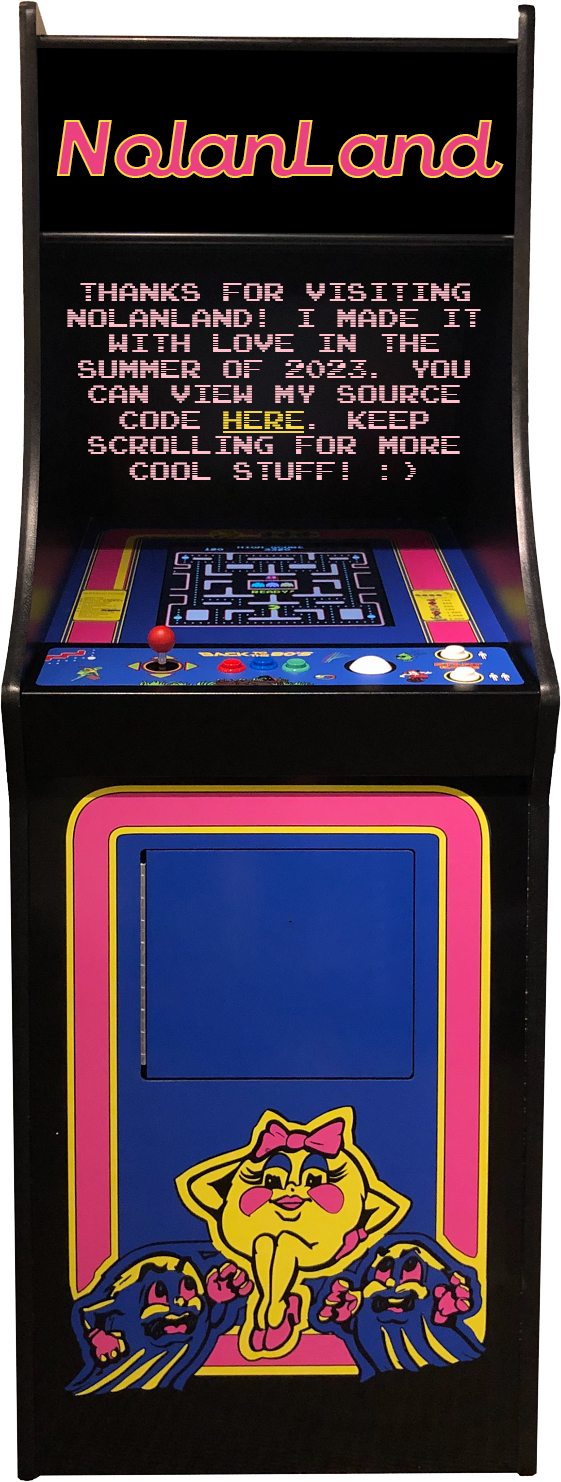
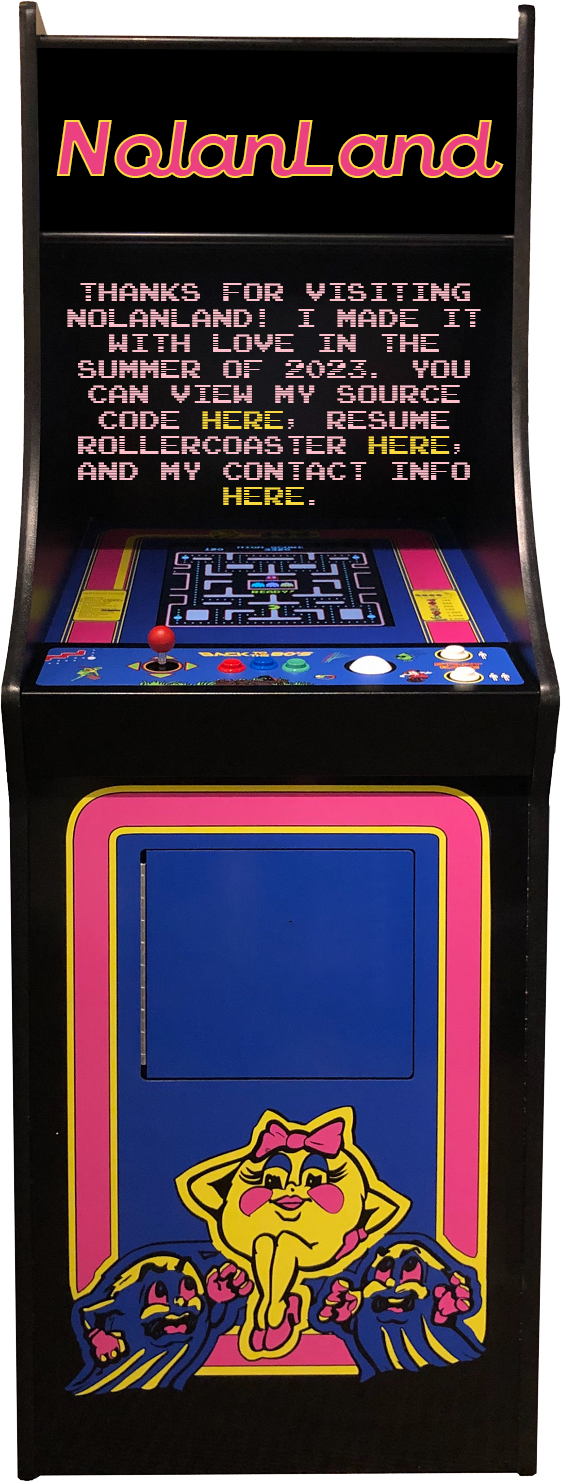
scrolling change to animation

Changed region(s): [[0.1212, 0.2794, 0.8485, 0.3414]]

diff --git a/script.js b/script.js
@@ -1,4 +1,6 @@
-var m = 350; // scroll buffer
+var m = 100; // scroll buffer
+var maxWidth = 40;
+var boxHeight = 16;
 
 $(window).scroll(function()
 {
@@ -6,7 +8,6 @@ $(window).scroll(function()
     var arcade = document.getElementById("arcade");
     var titleHeight = $("#title2").position().top;
     var width = window.innerWidth;
-    var maxWidth = Number(arcade.style.maxWidth.slice(0, -2)) * width / 100;
     var scrolling = $(this).scrollTop();
     if (scrolling >= titleHeight - document.getElementById("title1").offsetTop + 187)
     {
@@ -14,19 +15,17 @@ $(window).scroll(function()
         $("#title2").css("visibility", "visible");
         if (scrolling >= titleHeight - document.getElementById("title1").offsetTop + 325)
         {
-            var arcadeWidth = scrolling - (titleHeight - document.getElementById("title1").offsetTop) - 235;
-            var k = 1 // speed of zoom
-            if (k * arcadeWidth > 100)
-            {
-                if (k * arcadeWidth <= maxWidth)
-                {
-                    arcade.style.width = k * arcadeWidth + "px";
-                }
-                else
-                {
-                    arcade.style.width = maxWidth + "vw";
-                }
-            }
+            arcade.style.width = maxWidth + "vw";
+            $("#scrollbox").css("height", `${boxHeight}vw`); // Show about me text
+            $("#text1").css("visibility", "visible");
+            $("#text2").css("visibility", "hidden")
+            $("#text3").css("visibility", "hidden")
+            $("#text4").css("visibility", "hidden")
+        }
+        else
+        {
+            arcade.style.width = 10 + "vw";
+            $("#scrollbox").css("height", 0); // Hide about me text
         }
     }
     else
@@ -35,10 +34,8 @@ $(window).scroll(function()
         $("#title2").css("visibility", "hidden");
     }
     if (scrolling >= width + m)
-    {
-        $("#scrollbox").css("display", "block"); // Show about me text
+    {   
         document.getElementById("arcade").src = "media/arcade.png"; // Switch to blank arcade
-        $("#text1").css("visibility", "visible")
         $("#text1").css("opacity", `${100 - (0.1 * (scrolling - width - m))}%`); // Reduce opacity
         if (scrolling >= 2 * width + m)
         {   
@@ -65,23 +62,18 @@ $(window).scroll(function()
                             $("#text4").css("opacity", `${0.1 * (scrolling - 7 * width - m)}%`); // Increase fourth about me opacity
                             if (scrolling >= 8 * width + m)
                             {
-                                $("#arcade").css("max-width", "1000vw");
                                 $("#text4").css("visibility", "hidden");
                                 arcade.src = "media/arcade2.png";
-                                arcade.style.width = maxWidth + 0.05 * (scrolling - 8 * width - m) + "px";
-                                $("#arcade").css("opacity", `${100 - (0.05 * (scrolling - 8 * width - m))}%`); // Reduce text four opacity
-                                if (scrolling >= 10 * width + m)
+                                arcade.style.width = "100px"
+                                $("#scrollbox").css("height", 0); // Hide about me text
+                                if (scrolling >= 8.5 * width + m)
                                 {
-                                    $("#arcade").css("visibility", "hidden");
+                                    $("#arcadeContainer").css("transform", "translate(0, 40%)");
                                 }
                                 else
                                 {
-                                    $("#arcade").css("visibility", "visible");
+                                    $("#arcadeContainer").css("transform", "translate(0, 0)");
                                 }
-                            }
-                            else
-                            {
-                                $("#arcade").css("opacity", 1);
                             }
                         }
                         else
@@ -126,13 +118,10 @@ function screen_size()
         {
             if (screen.width <= 415 && window.innerWidth < window.innerHeight)
             {
-                $("#arcade").css("max-width", "100vw");
                 $("#scrollbox").css("width", "74vw");
-                $("#scrollbox").css("height", "40vw");
                 $("#scrollbox").css("left", "12%");
-                $("#scrollbox").css("margin-top", "49vw");
+                $("#scrollbox").css("margin-top", "50vw");
                 $(".aboutme").css("font-size", "3.7vw");
-                $(".aboutme").css("margin-top", "1vw");
                 document.getElementById("coaster").src = "media/mobileCoaster.png";
                 $("#coaster").css("transform", "translate(0, -230px)");
                 $("#title1").css("margin-top", "550px");
@@ -140,20 +129,17 @@ function screen_size()
                 document.getElementById("title2").classList.add("mobile");
                 $("#subheading").css("margin-top", "700px");
                 $("#subheading").css("left", "40%");
-                m = 1800;
+                m = 1500;
+                maxWidth = 100;
+                boxHeight = 40;
             }
             else
             {
-                $("#arcade").css("max-width", "40vw");
                 $("#arcade").css("backround-color", "white");
-                $("#arcade").css("top", "-1px");
                 $(".aboutme").css("font-size", "1.5vw");
-                $(".aboutme").css("margin-top", 0);
                 $("#scrollbox").css("width", "30vw");
-                $("#scrollbox").css("height", "16vw");  
                 $("#scrollbox").css("left", "34.5%");
-                $("#scrollbox").css("margin-top", 0);
-                $("#scrollbox").css("top", "20vw");
+                $("#scrollbox").css("margin-top", "20vw");
                 document.getElementById("coaster").src = "media/coaster.png";
                 $("#coaster").css("transform", "translate(0, 0)");
                 $("#title1").css("margin-top", "100px");
@@ -161,28 +147,29 @@ function screen_size()
                 document.getElementById("title2").classList.remove("mobile");
                 $("#subheading").css("margin-top", "150px");
                 $("#subheading").css("left", "50%");
-                m = 350;
+                maxWidth = 40;
+                boxHeight = 16;
             }
         }
         else
         {
-            $("#arcade").css("max-width", "40vw");
-            $("#arcade").css("top", "-1px");
-            $("#scrollbox").css("top", "20vw");
+            $("#scrollbox").css("margin-top", "20vw");
+            maxWidth = 40;
+            boxHeight = 16;
         }
     }
     else
     {
-        $("#arcade").css("max-width", "40vw");
-        $("#scrollbox").css("top", "20vw");
+        $("#scrollbox").css("margin-top", "20vw");
         $("#navigation").css("visibility", "visible");
         $("#coaster").css("top", "0px");
         $("#sidebar").css("width", "25vw");
         $(".menutext").css("font-size", "3.7vw");
         $(".menutext").css("margin-top", "1vw");
         $("#home").css("margin-top", "100px");
-        $("#arcade").css("top", "-1px");  
+        boxHeight = 16;
     }
+    $("#construction").css("margin-top", `${8.5 * window.innerWidth + m}px`);
 }
 
 document.addEventListener("DOMContentLoaded", function()

diff --git a/index.html b/index.html
@@ -17,7 +17,6 @@
             <a id="home" class="nav-link menutext" style= "margin-top: 100px;" aria-current="page" href="#">Home</a>
             <a class="nav-link menutext" href="#">About Me Arcade</a>
             <a class="nav-link menutext" href="#">Resume Rollercoaster</a>
-            <a class="nav-link menutext" href="#">Hours</a>
             <a class="nav-link menutext" href="#">Contact</a>
         </div>
     
@@ -33,13 +32,12 @@
                     <a class="nav-link px-3" aria-current="page" href="#">Home</a>
                     <a class="nav-link px-3" href="#">About Me Arcade</a>
                     <a class="nav-link px-3" href="#">Resume Rollercoaster</a>
-                    <a class="nav-link px-3" href="#">Hours</a>
                     <a class="nav-link px-3" href="#">Contact</a>
                 </div>
             </nav>
         </div>
         <h1 id="title1">Welcome to NolanLand!</h1>
-        <h2 id="subheading">Scroll through!</h2>
+        <h2 id="subheading">Scroll through for the About Me Arcade &#11015</h2>
         <img src="media/coaster.png" alt="Roller coaster" id="coaster" class="coaster">
         <h1 id="title2">Welcome to NolanLand!</h1>
         <div id="arcadeContainer">
@@ -53,13 +51,17 @@
                     <a href="https://80000hours.org/" target="_blank">effective altruism</a> and 
                     <a href="https://watchdominion.com/" target="_blank">animal welfare</a>.
                 </h1>
-                <h1 id="text3" class="aboutme">In my free time, I like to run, code, read, skateboard, cook, act, make stuff, and learn new things.</h1>
+                <h1 id="text3" class="aboutme">My interests include running, coding, reading, puzzles, cooking, acting, and learning new things.</h1>
                 <h1 id="text4" class="aboutme">Thanks for visiting NolanLand! I made it with love in the summer of 2023. You can view my source code 
-                    <a href="https://github.com/nshaff3r/NolanLand" target="_blank">here</a>. Keep scrolling for more cool stuff! :)
+                    <a href="https://github.com/nshaff3r/NolanLand" target="_blank">here</a>, Resume Rollercoaster 
+                    <a href="#">here</a>, and my contact info 
+                    <a href="#">here</a>.
                 </h1>
             </div>  
         </div>
-        
+        <div>
+            <!-- <img src="media/roller.png" alt="Roller coaster loop" id="resume-coaster"> -->
+        </div>
         <div>
           <h3 id="construction">Under Construction! &#128119 &#128119</h3>
         </div>

diff --git a/styles.css b/styles.css
@@ -36,7 +36,7 @@ a
 
 #construction
 {
-    margin-top: 50000px;
+    margin-top: 1000vw;
     text-align: center;
 }
 
@@ -96,13 +96,16 @@ a
 #arcade
 {
     left: 0px;
-    width: 100px;
+    width: 10vw;
+    min-width: 10vw;
+    transition: 2s;
 }
 
 #arcadeContainer
 {
     position: sticky;
     top: 0;
+    transition: 2s;
     display: flex;
     justify-content: center;
 }
@@ -114,10 +117,11 @@ a
     left: 34.5%;
     top: 0;
     width: 30vw;
-    height: 16vw;
+    height: 0;
     z-index: 2;
     overflow: hidden;
-    display: none;
+    transition: 0s;
+    transition-delay: 1.9s;
 }
 
 #coaster
@@ -126,7 +130,17 @@ a
     width: 100%;
     margin-bottom: 25px;
     z-index: 0;
-    /* transform: translate(0, -400px); */
+}
+
+#resume-coaster
+{
+
+    display: block;
+    margin-left: auto;
+    margin-right: auto;
+    margin-top: 800vw;
+    width: 80%;
+    justify-content: center;
 }
 
 .mobile
@@ -189,5 +203,4 @@ color: lightcoral;
     font-family: arcade;
     position: absolute;
     z-index: 4;
-    visibility: hidden;
 }
